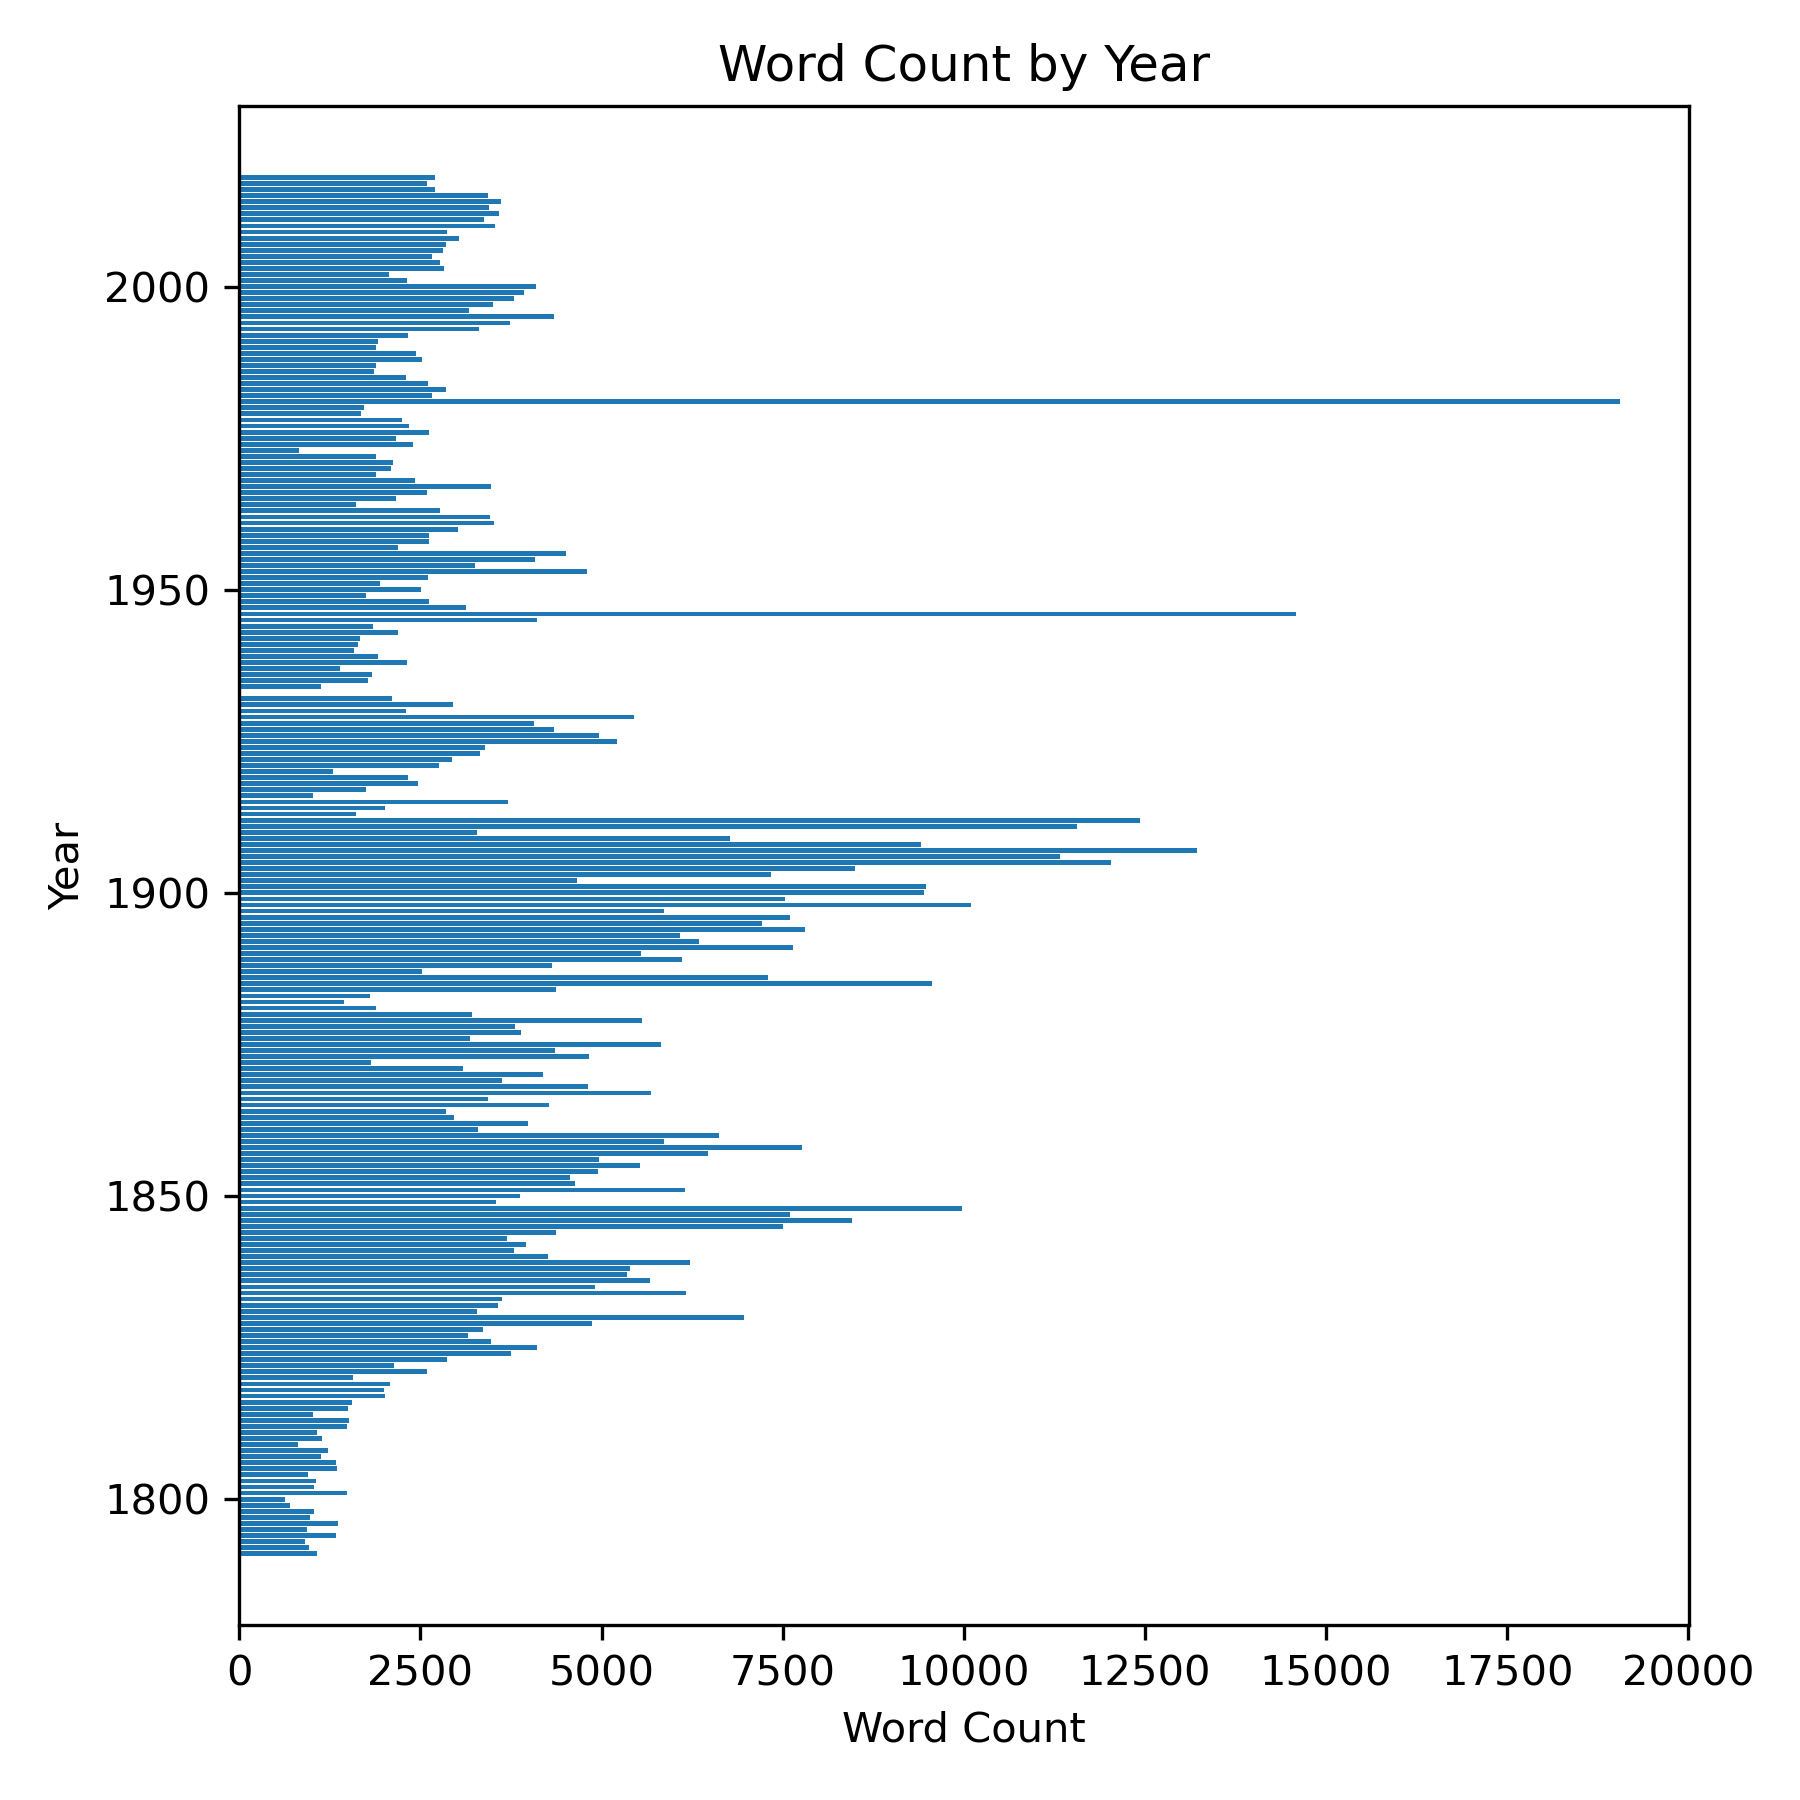
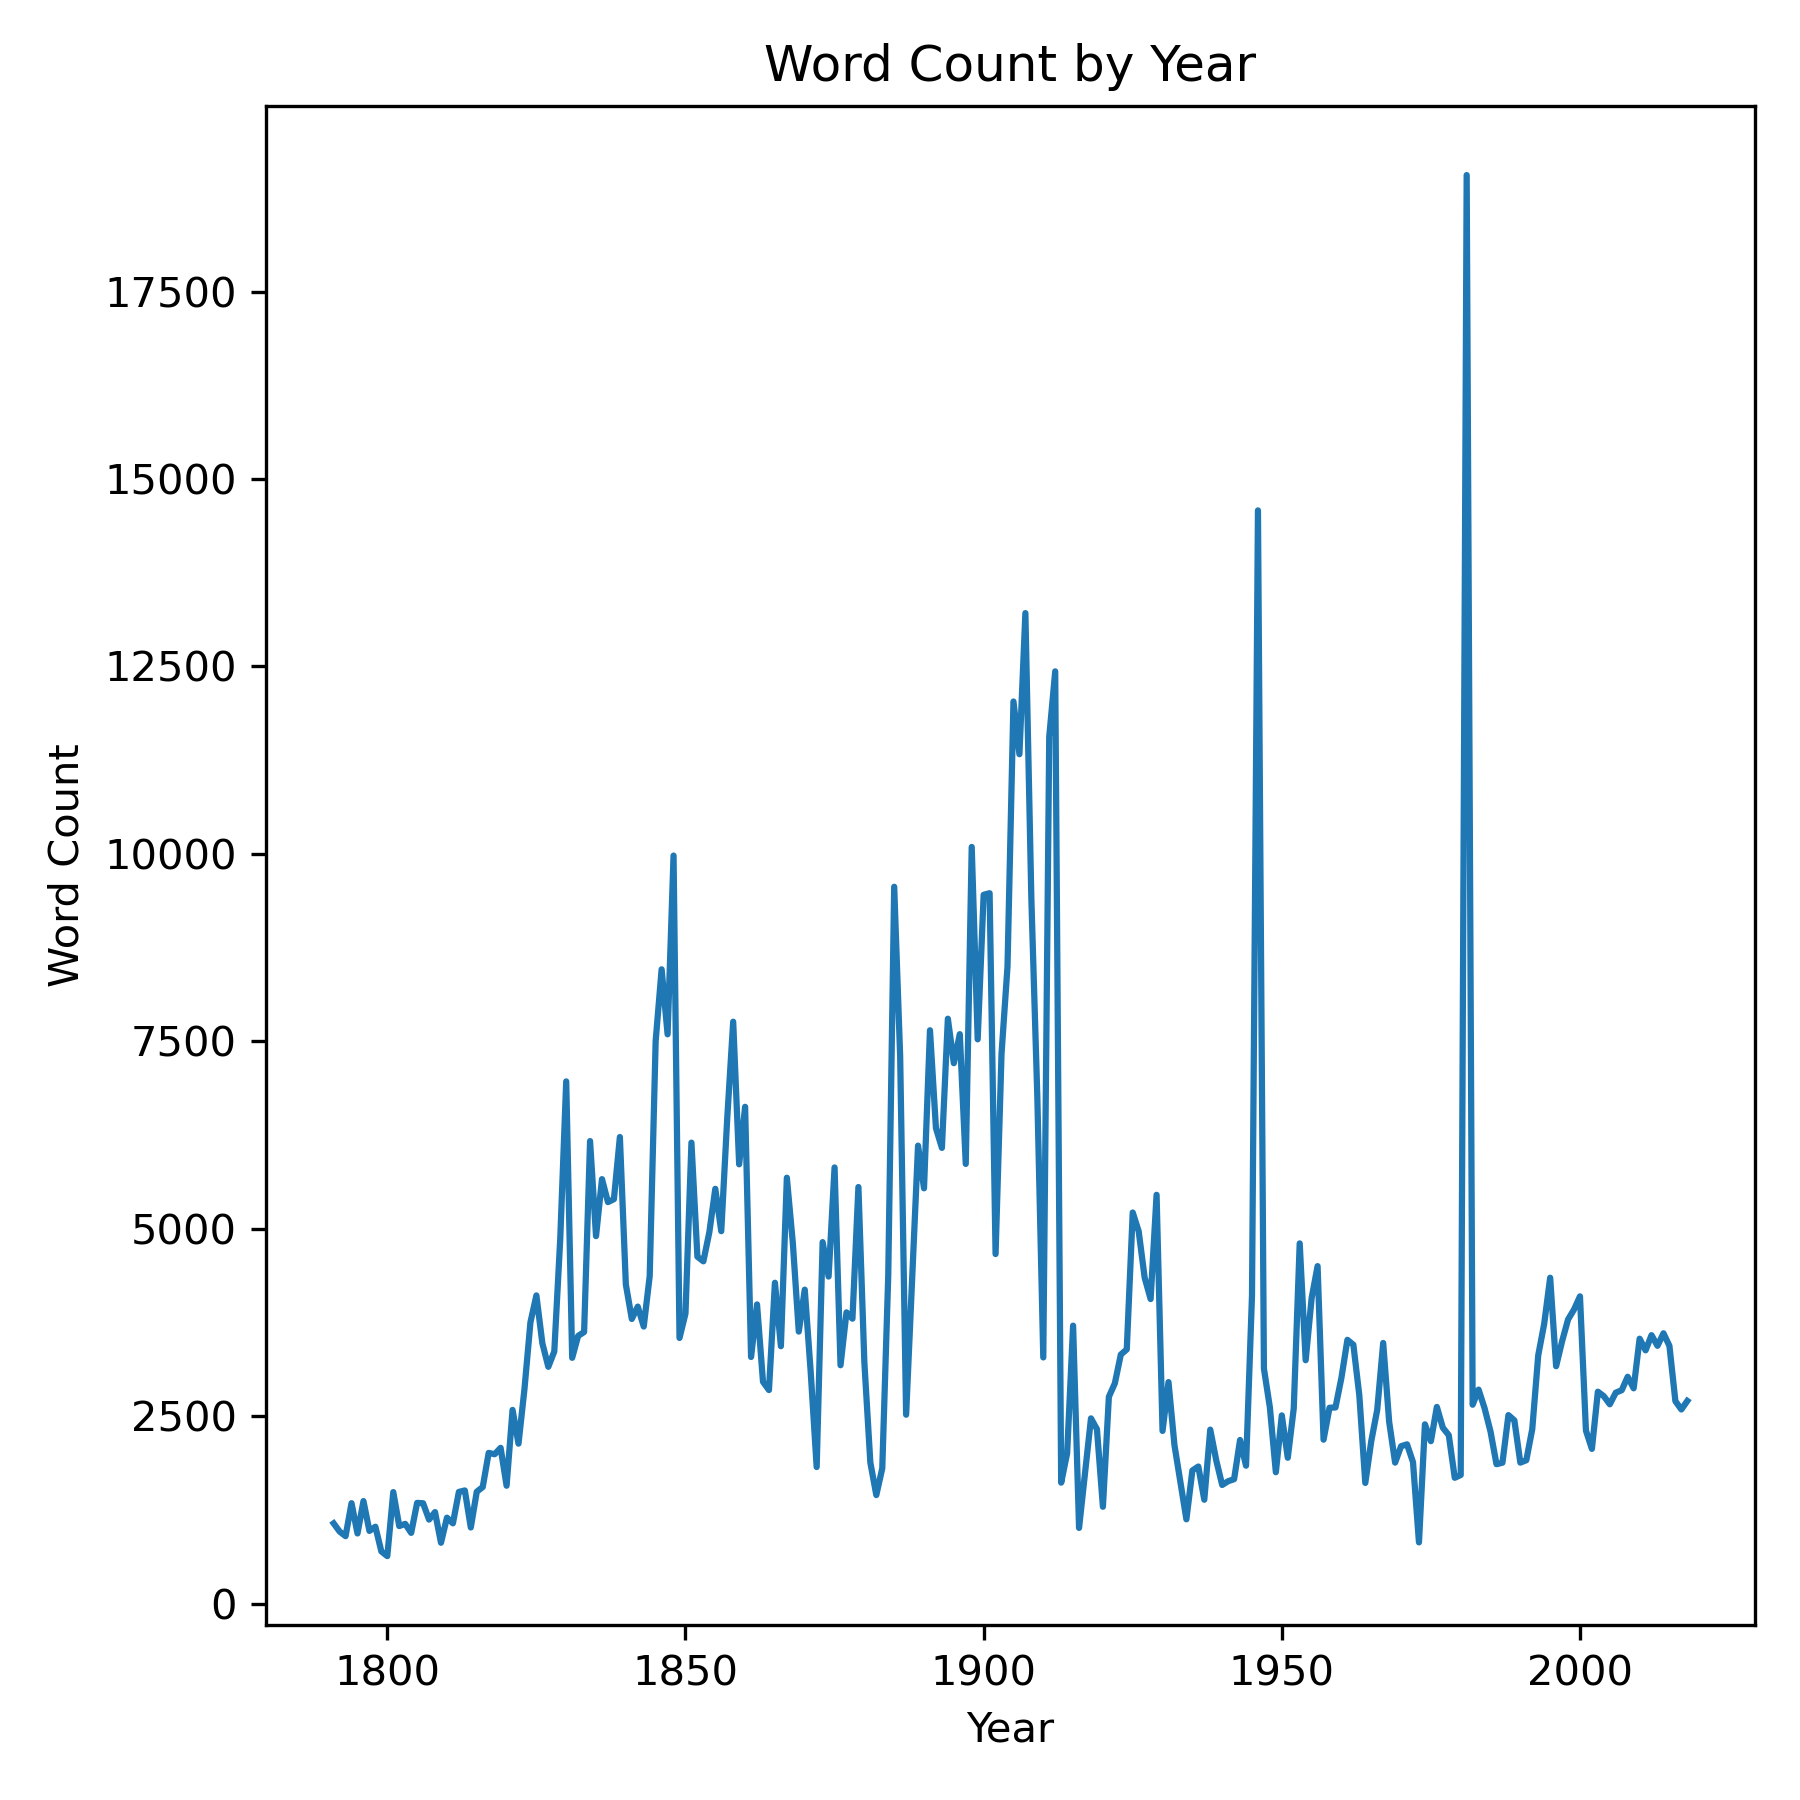
made moooooooore readme changes

diff --git a/president_sotu_speech.py b/president_sotu_speech.py
@@ -390,6 +390,7 @@ if __name__ == "__main__":
     fig0, ax0 = plt.subplots(figsize=(6,6))
     ax0.barh(df_president_speeches['prez'], df_president_speeches['avg_word_per_speech'], color='tab:blue')
     ax0.set(xlabel='Avg. Words per Speech', ylabel='President', title='Avg. Words per Speech by President')
+    ax0.tick_params(axis='y', labelsize=8)
     plt.tight_layout()
     plot0_filename = 'output/Word-Count-by-President-CHRONO.png'
     fig0.savefig(plot0_filename, dpi=dpi)
@@ -422,8 +423,8 @@ if __name__ == "__main__":
     fig3.savefig(plot3_filename, dpi=dpi)
     
     fig4, ax4 = plt.subplots(figsize=(6,6))
-    ax4.barh(df_speeches_sorted['year'], df_speeches_sorted['cleaned_word_count'], color='tab:blue')
-    ax4.set(xlabel='Word Count', ylabel='Year', title='Word Count by Year')
+    ax4.plot(df_speeches_sorted['year'], df_speeches_sorted['cleaned_word_count'], color='tab:blue')
+    ax4.set(xlabel='Year', ylabel='Word Count', title='Word Count by Year')
     plt.tight_layout()
     plot4_filename = 'output/Word-Count-by-Year-CHRONO.png'
     fig4.savefig(plot4_filename, dpi=dpi)

diff --git a/README.md b/README.md
@@ -74,6 +74,18 @@ For my analysis, I analyzed the most frequent 1-word, 2-word, and 3-word phrases
 
 Aside from the common 1/2/3-word phrases, I performed sentiment analysis using two different methods: one, using a text file of sentiment keys I gained during my studies at Regis University, and another, using the TextBlob python package. Some important charts are as follows:
 
+# Measuring Word Count 
+
+![Word Count by President](output/Word-Count-by-President-SORTED.png)
+
+![Word Count by Year](output/Word-Count-by-Year-CHRONO.png)
+
+# Measuring Speech Substance
+
+I measured speech "substance" by taking a ratio of the word count AFTER cleaning / the word count BEFORE cleaning. Since cleaning removes the stopwords and filler material, this ratio will give a good measure of how much "fluff" was in the president's speech. 
+
+![Speech Substance by President](output/Speech-Substance-by-President-SORTED.png)
+
 # Measuring Vocabulary / Amount of Unique Words per Speech
 
 I wanted to see which presidents used more of a variety of words. The two charts below serve to show the amount of unique words used by each president, or by each year. From the charts below, it looks like the early presidents did **not** use a lot of unique words. Reagan, Obama, W. Bush, and Clinton also did not use a lot of different words in their speeches, compared to others.
@@ -94,6 +106,8 @@ My main analytical focus was that of sentiment analysis for this project. There 
 
 ![Subjectivity by President](output/Subjectivity-by-President-SORTED.png)
 
+![Sentiment by Year](output/Line-Sentiment-by-Year-CHRONO.png)
+
 ![Polarity by Year](output/Polarity-by-Year-CHRONO.png)
 
 
@@ -103,8 +117,45 @@ My main analytical focus was that of sentiment analysis for this project. There 
 
 All in all, it seems like there really isn't a great correlation for presidential sentiment. However, year 6 seemed to be the golden time for a president as the sentiment and polarity both spiked upwards during those years while remaining relatively consistent during the other years. Year 6 appears to be a bit of a "victory lap" in the president's State of the Union address, noticeably more positive than the other years.
 
-With regard to other measures like word count, common n-grams, speech substance, and more, it was really interesting to see each presidents' focus areas. 
+With regard to other measures like word count, common n-grams, speech substance, and more, it was really interesting to see each presidents' focus areas. The final answers to my questions were:
 
+- What is the quantitative positive/negative sentiment between all the speeches?
+
+It seemed like the speeches were generally on the positive side, with sentiment and polarity scores above 0 most of the time. The lowest level of sentiment/polarity was around the period of World War II, around 1940-45. Following that period, there was a noticeable uptick in sentiment/polarity until the late 90's. 
+
+- What is the quantitative positive/negative sentiment between all the presidents?
+
+The sentiment can be shown in the 'Polarity by President' chart. It seems like Richard Nixon on average is the most positively speaking president! George W. Bush was the most recent president whose sentiment was more positive than most. Barack Obama was the most recent president whose sentiment was more negative than most. It also seemed like, on average, recent Republican presidents were shown to have a more positive sentiment than recent Democratic presidents. Presidents like Donald Trump, George W. Bush, Ronald Reagan, and Richard Nixon all had higher sentiment and polarity scores than presidents like Barack Obama and Bill Clinton.
+
+- Which presidents use the widest variety of words?
+
+It seemed like, on average, Zachary Taylor, William McKinley, William Howard Taft, Millard Fillmore, James Polk, and John F Kennedy had the highest variety of words among the presidents.
+
+It also seemed like the early presidents had the lowest number of unique words. Presidents like Washington, John Adams, Thomas Jefferson, and James Madison all scored the lowest on the measure of vocabulary. 
+
+- What are the themes or buzzwords among the different speeches / presidents?
+
+The 2-gram and 3-gram charts can be investigated to see the different themes or buzzwords among the different speeches and presidents. It is interesting to browse through all of them! For example, George W Bush's 2-gram chart shows popular mentions like "middle east", "saddam hussein", "war terror", and "weapon mass", showing how important the War on Terror was to his presidency. Franklin Roosevelt presided over the nation during World War II and his 2-gram chart definitely reflects this, showing terms like "armed force", "world war", and "united nation". 
+
+- What were the most common words used in each speech?
+
+Similar answer as above :) the 1-word, 2-gram, and 3-gram charts all show the most common words and phrases used during each of the speeches. 
+
+- Which presidents gave the longest speeches?
+
+
+
+- Which presidents gave the shortest speeches?
+
+
+
+- Which presidents used the most unique words?
+
+Similar answer to the vocabulary / variety of word measure, shown above.
+
+- Which presidents used the least unique words?
+
+Similar answer to the vocabulary / variety of word measure, shown above.
 
 <a name="future"/>
 
